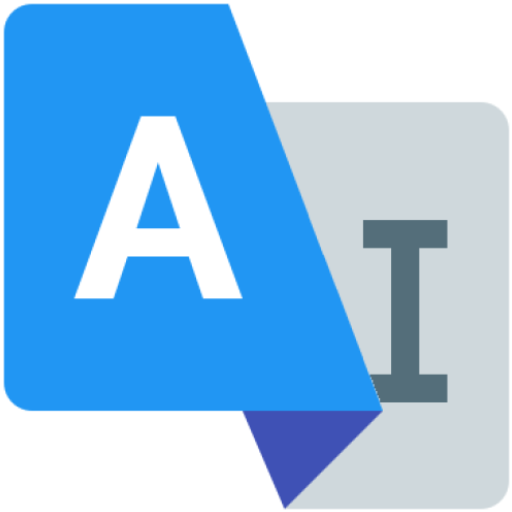
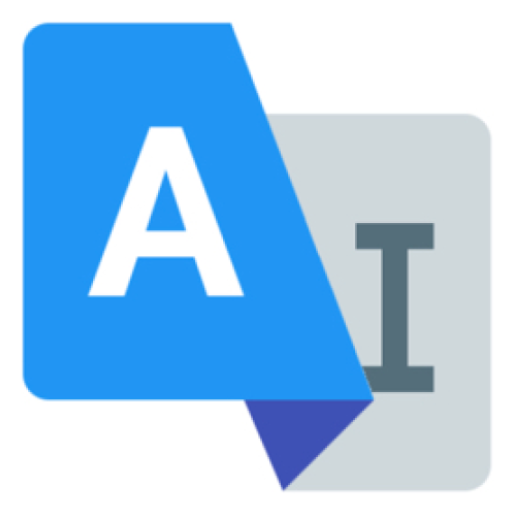
add splashscreen api, change images and update gradle

diff --git a/app/src/main/java/dev/bulean/tridictir/MainActivity.java b/app/src/main/java/dev/bulean/tridictir/MainActivity.java
@@ -2,6 +2,7 @@ package dev.bulean.tridictir;
 
 import androidx.annotation.Nullable;
 import androidx.appcompat.app.AppCompatActivity;
+import androidx.core.splashscreen.SplashScreen;
 import androidx.databinding.DataBindingUtil;
 import androidx.lifecycle.Observer;
 import androidx.lifecycle.ViewModelProvider;
@@ -33,7 +34,7 @@ public class MainActivity extends AppCompatActivity {
     @Override
     protected void onCreate(Bundle savedInstanceState) {
         super.onCreate(savedInstanceState);
-
+        SplashScreen.installSplashScreen(this);
         ActivityMainBinding binding = DataBindingUtil.setContentView(this, R.layout.activity_main);
         viewModel = new ViewModelProvider(this).get(WordViewModel.class);
         binding.setViewModel(viewModel);
